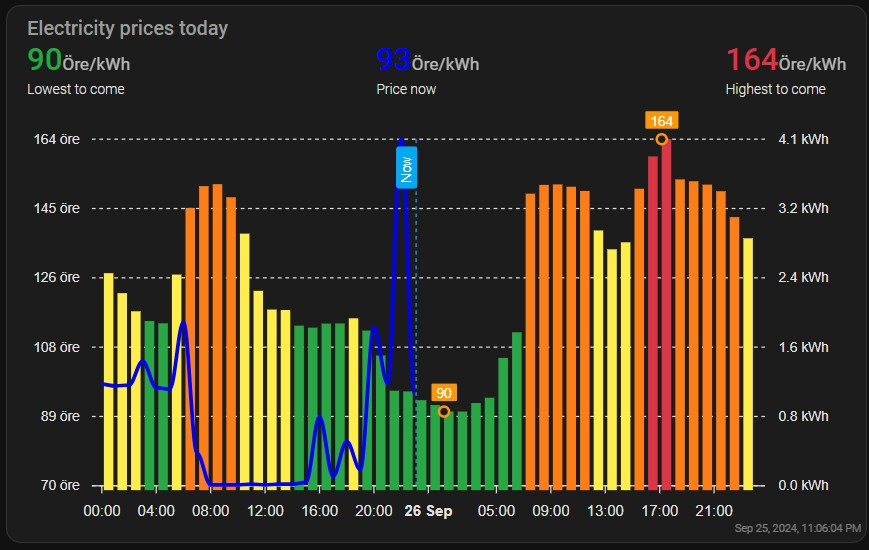
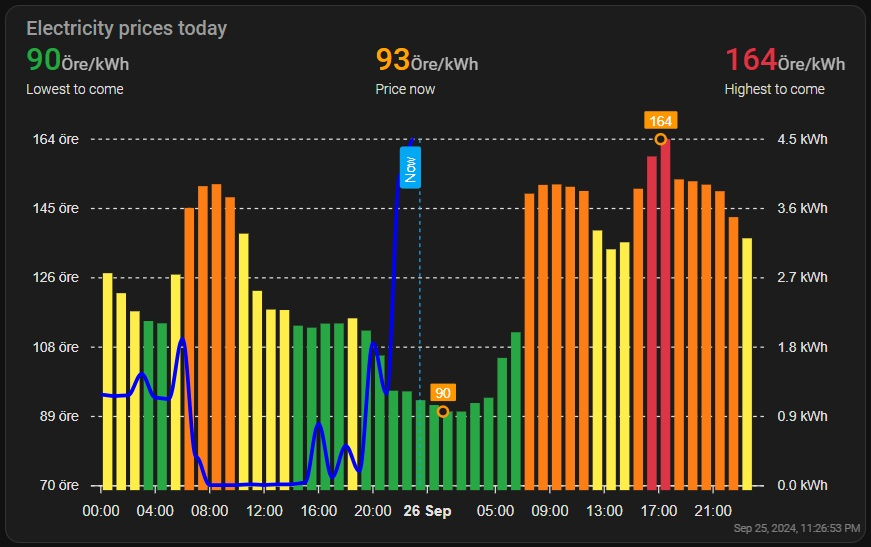
Update color of "Price now" card in nordpool_energy_chart

diff --git a/dashboards/nordpool_energy_chart/readme.md b/dashboards/nordpool_energy_chart/readme.md
@@ -163,7 +163,7 @@ card:
         });
     - entity: sensor.nordpool
       name: Price now
-      color: blue
+      color: orange
       type: column
       show:
         in_chart: false
